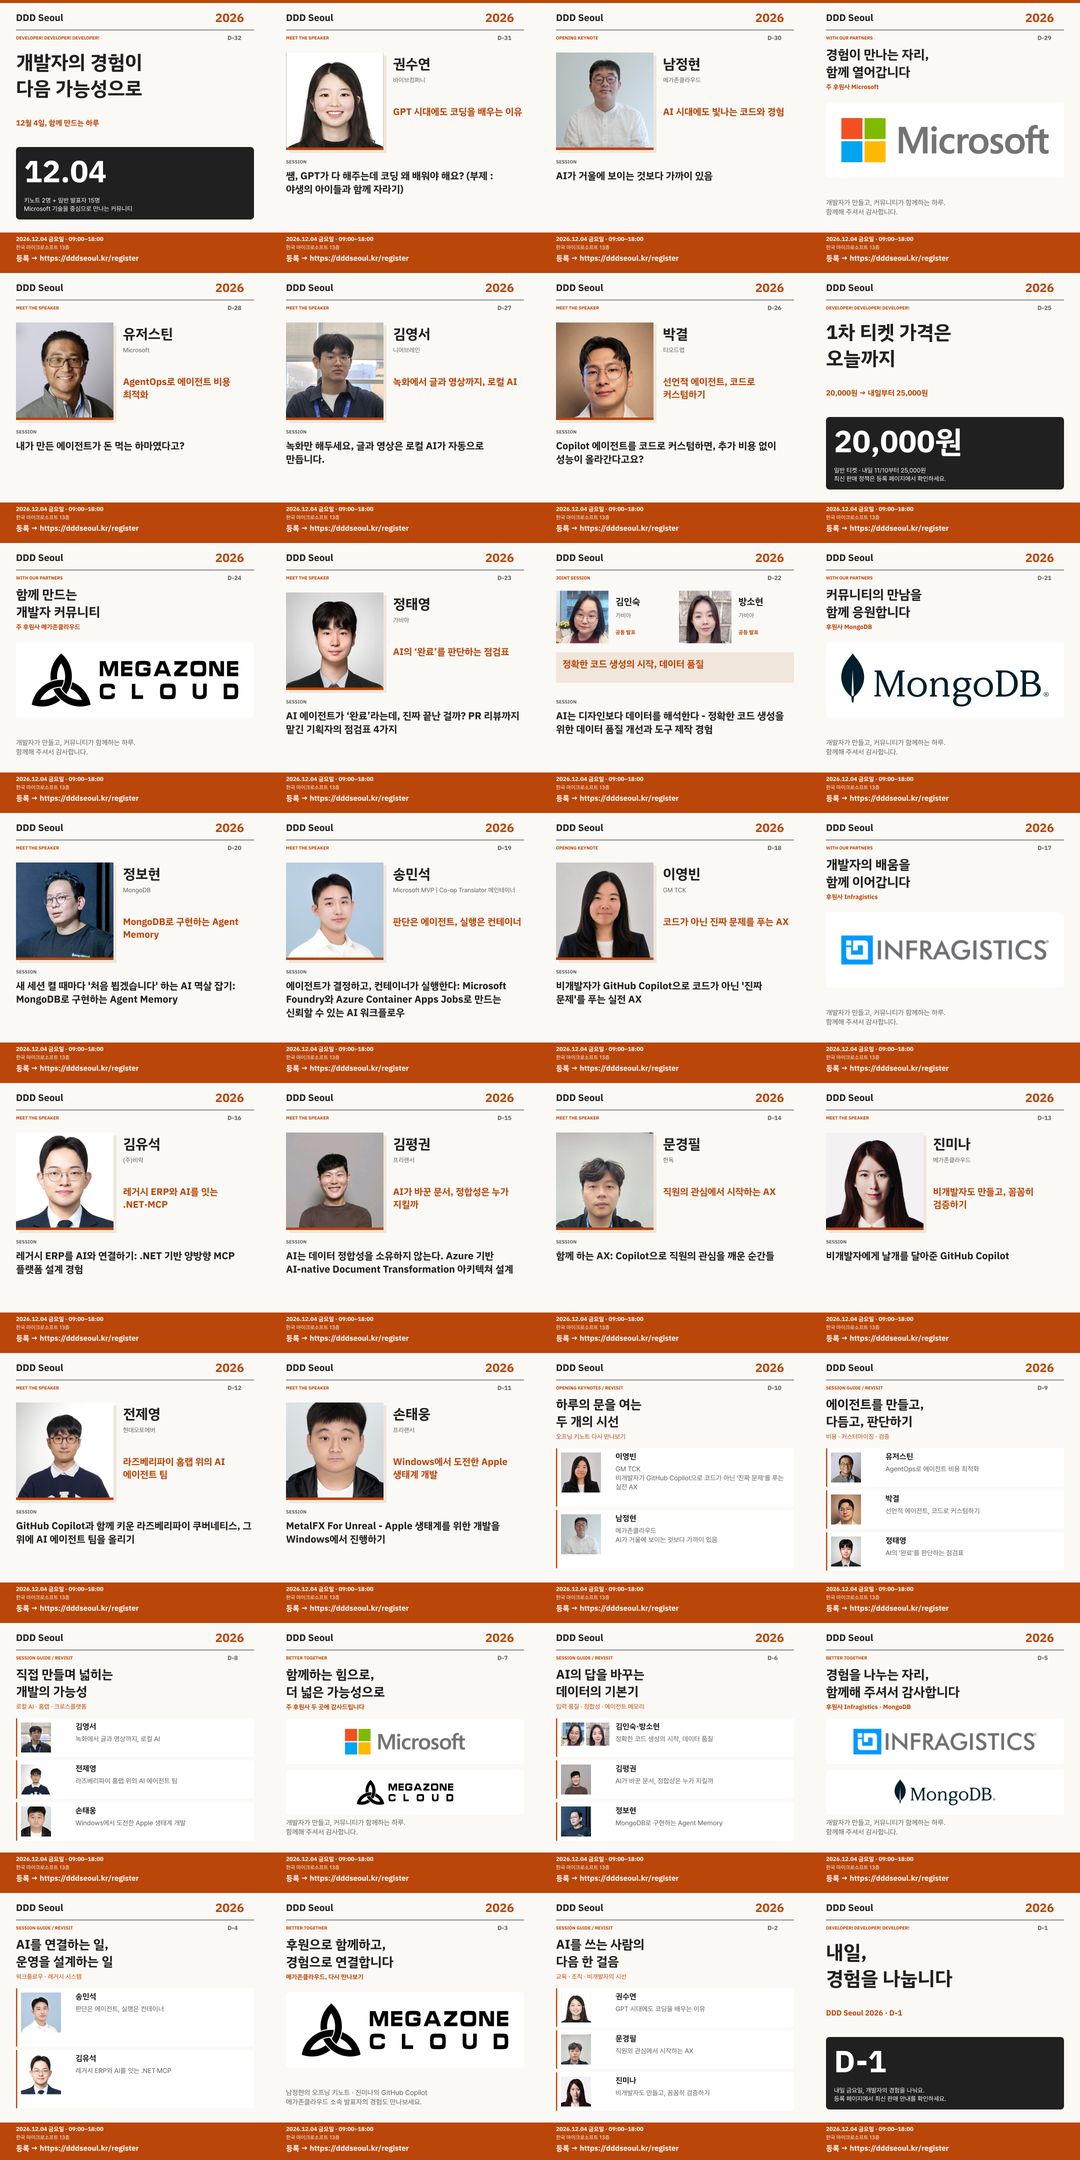
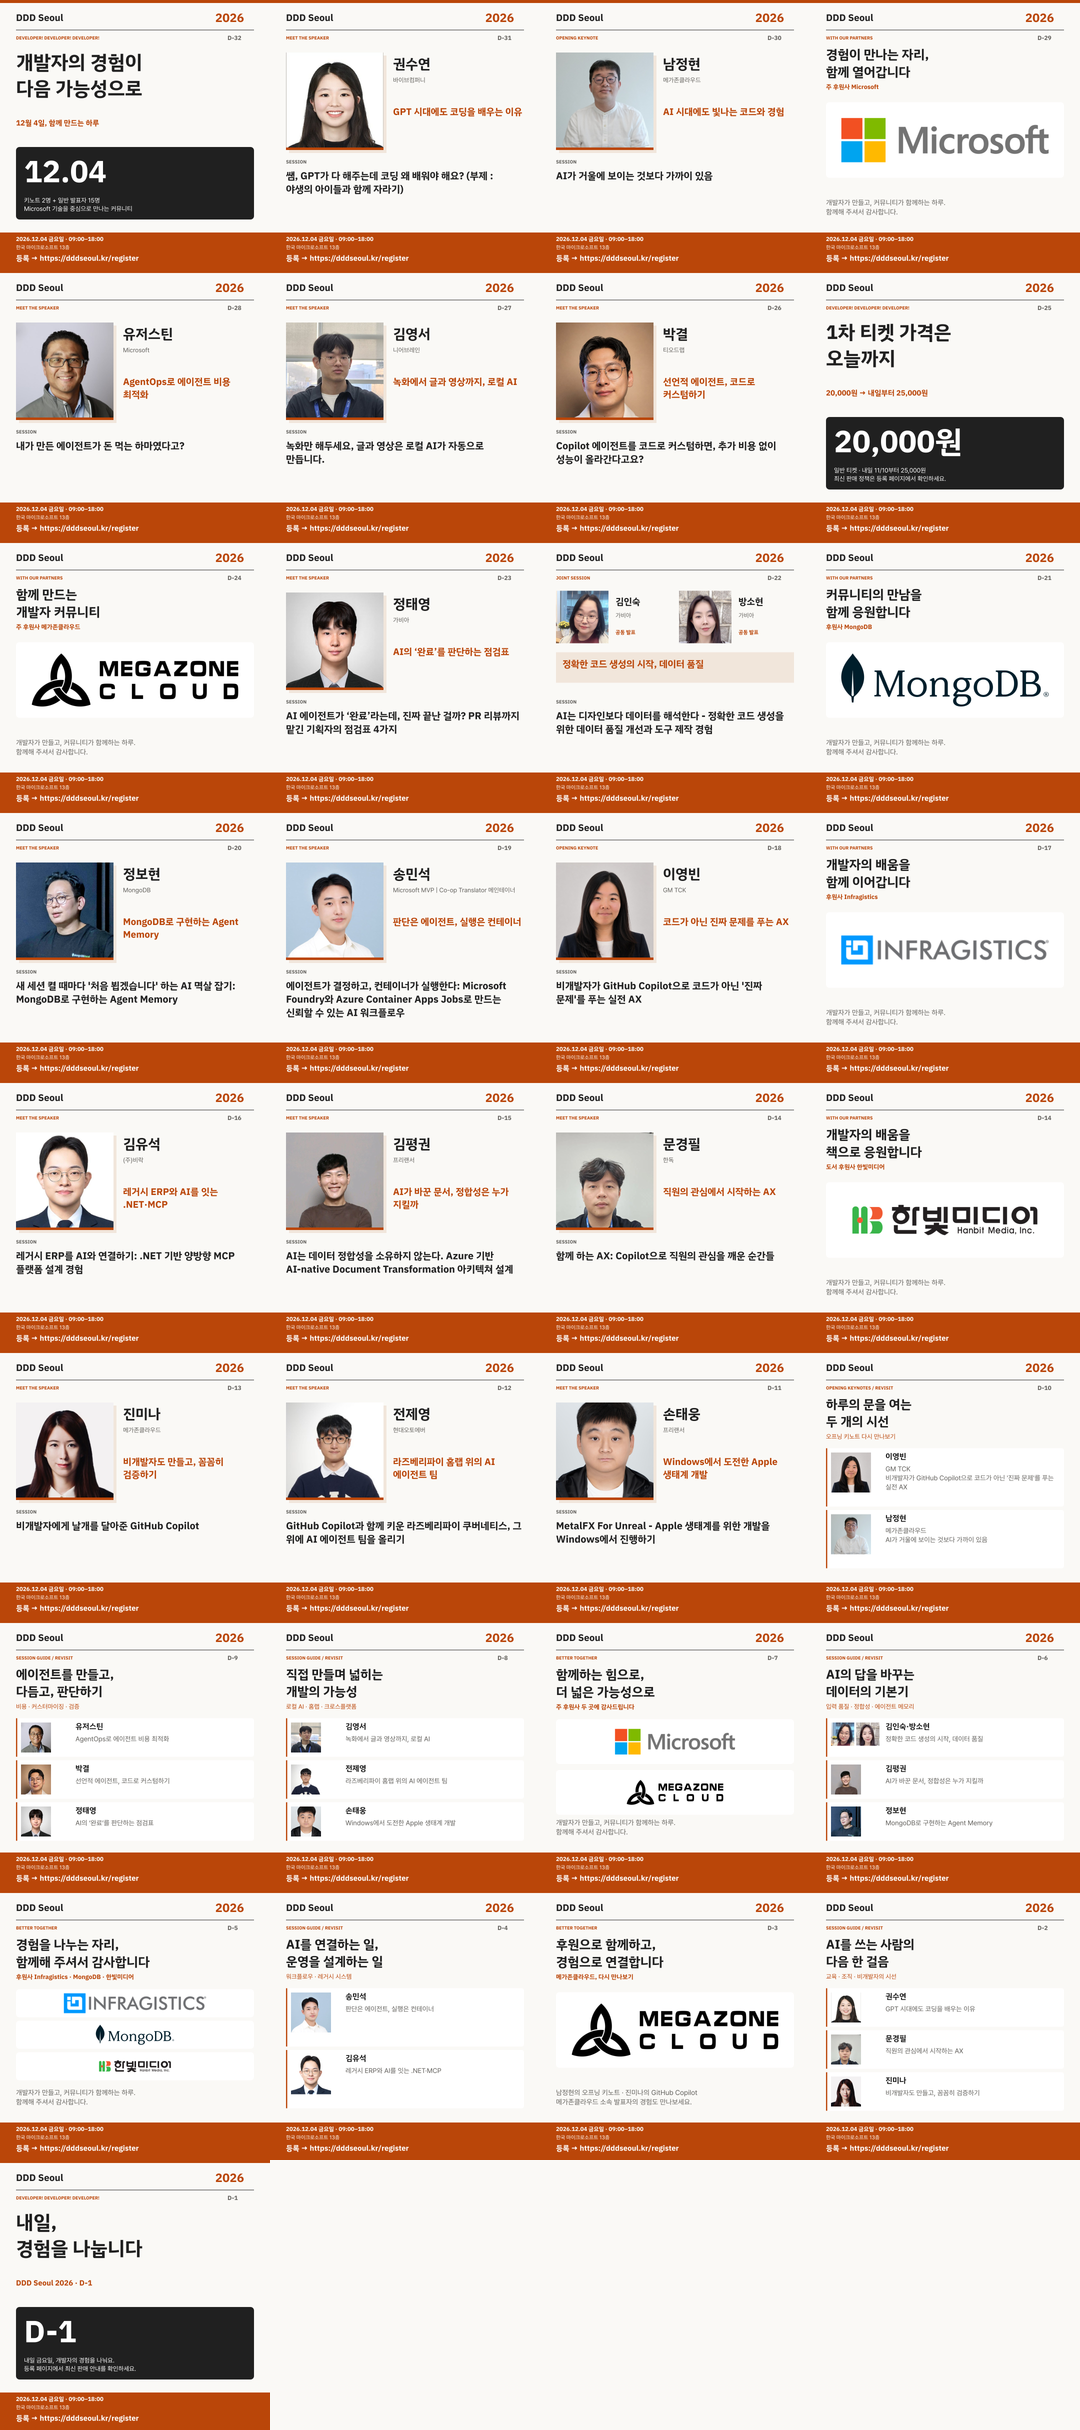
Add Hanbit Media sponsor campaign

diff --git a/cardnews/2026/README.md b/cardnews/2026/README.md
@@ -1,26 +1,30 @@
 # DDD Seoul 2026 소셜미디어 게시 키트
 
-**2026년 11월 2일–12월 3일, 매일 4채널에 게시할 초안**입니다. 공식 LinkedIn·Facebook·X는 Fedica에 예약했으며, Threads는 예약하지 않았습니다. 11월 6일 최신 발표 내용으로 갱신한 11개 날짜의 공식 3채널 예약 33건에는 본문·이미지·대체 텍스트 교체를 완료했습니다. 예약은 오전 9시 KST를 유지하며, 수정한 X 게시물 11건의 답글 권한은 Anyone입니다. 모든 카드와 초안의 CTA는 <https://dddseoul.kr/register>입니다.
+**2026년 11월 2일–12월 3일, 4채널 게시 초안**입니다. 공식 LinkedIn·Facebook·X의 기존 일정은 Fedica에 예약했으며, Threads는 예약하지 않았습니다. 11/29 공동 소개의 공식 3채널 예약에 한빛미디어를 반영했고, **11/20 15:00 한빛미디어 단독 소개도 공식 3채널에 예약했습니다.** 기존 예약은 11/2 15:00, 이후 매일 오전 9시 KST입니다. 모든 카드와 초안의 CTA는 <https://dddseoul.kr/register>입니다.
+
+11월 6일 최신 발표 내용으로 갱신한 11개 날짜의 공식 3채널 예약 33건에는 본문·이미지·대체 텍스트 교체를 완료했습니다. 수정한 X 게시물 11건의 답글 권한은 편집 화면에서 Anyone으로 확인했습니다.
+
+11/20 한빛미디어 예약의 X 답글 권한은 편집 화면에서 Anyone으로 확인했지만, Fedica 미리보기에는 `Some accounts can reply`로 표시되어 실제 적용 여부는 불확실합니다.
 
 [게시 달력](calendar.md)에서 날짜를 선택하면 해당 이미지와 공식 LinkedIn·Facebook·X, 개인 Threads 초안을 한꺼번에 볼 수 있습니다.
 
 배포용 ZIP에서는 이미지·SVG·게시글을 바로 사용할 수 있습니다. 자동 재출력은 원본 발표자 문서와 자산을 읽으므로, 이 폴더를 원래 위치에 둔 저장소 체크아웃에서 실행하세요.
 
-![32일 카드 전체 미리보기](contact-sheet.png)
+![33개 카드 전체 미리보기](contact-sheet.png)
 
 ## 구성
 
 | 항목 | 위치 | 수량 |
 |---|---|---|
-| 게시용 정사각형 PNG | `images` | 32개, 1080×1080, sRGB |
-| 편집 가능한 SVG | `editable` | 32개, 사진·로고 포함 |
-| 날짜별 게시글·이미지 대체 텍스트 | `posts` | 32문서, 채널별 초안 총 128개 |
+| 게시용 정사각형 PNG | `images` | 33개, 1080×1080, sRGB |
+| 편집 가능한 SVG | `editable` | 33개, 사진·로고 포함 |
+| 날짜별 게시글·이미지 대체 텍스트 | `posts` | 33문서, 채널별 초안 총 132개 |
 | 게시 달력 | `calendar.md` | 32일, KST 기준 |
 | 편집용 문구·일정 | `content.json` | 수작업 편집 원천 |
 | 전체 데이터·완성 초안·출처 해시 | `campaign.json` | 자동 생성 |
 | 카드 레이아웃·생성·검수 | `build.mjs` | 제작 전용, 웹사이트 빌드와 독립 |
 
-발표자 17명의 첫 소개는 **개인 15장 + 김인숙·방소현 공동 1장**입니다. 파트너사 첫 소개 4장, 발표자 재소개 6장, 파트너사 재소개 3장, 참가 독려 3장으로 총 32장입니다.
+발표자 17명의 첫 소개는 **개인 15장 + 김인숙·방소현 공동 1장**입니다. 파트너사 첫 소개 5장, 발표자 재소개 6장, 파트너사 재소개 3장, 참가 독려 3장으로 총 33장입니다. 11/20에는 기존 문경필 소개 외에 한빛미디어 단독 소개를 15:00에 추가합니다.
 
 모든 발표자의 첫 소개는 **11월 23일**에 끝나며, 재소개는 **11월 24일**부터 시작합니다.
 
@@ -35,7 +39,7 @@
 
 일반 세션 14개를 빠짐없이 나누었으며, 네 채널 각각에서 발표자 17명 모두를 재소개합니다. 주제 묶음은 편집상 구분이지 공식 트랙·발표 순서·동시 진행 시간표가 아닙니다.
 
-메가존클라우드는 11/10·12/1 **단독 2회**, 11/27 **주 후원사 묶음 1회**로 총 3회 노출합니다. 참가 독려 전용일은 11/2·11/9·12/3이고, 다른 모든 날에도 등록 CTA가 있습니다.
+메가존클라우드는 11/10·12/1 **단독 2회**, 11/27 **주 후원사 묶음 1회**로 총 3회 노출합니다. 한빛미디어는 11/20 **단독 1회**, 11/29 **공동 1회** 소개합니다. 참가 독려 전용일은 11/2·11/9·12/3이고, 다른 모든 날에도 등록 CTA가 있습니다.
 
 ## 게시하는 방법
 
@@ -72,7 +76,7 @@ node cardnews\2026\build.mjs
 - **이름·소속·사진·정식 세션명:** `src\DDDSeoul\input\speakers`의 원문에서 읽습니다. 사진 경로는 원문을 그대로 따릅니다. 진미나 사진은 운영진 이미지 경로입니다.
 - **디자인·글자 크기·줄바꿈·사진 배치:** `build.mjs`의 카드 함수에서 수정합니다. 글자가 영역을 넘거나 글꼴에 문자가 없으면 생성을 실패시킵니다.
 - **편집 프로그램에서 개별 수정:** `editable`의 SVG를 사용합니다. 다만 자동 생성 명령은 SVG·PNG·게시글·달력을 다시 쓰므로, 계속 유지할 변경은 원천 데이터나 템플릿에도 반영해야 합니다.
-- **파트너사 로고:** 기존 `theme\input\images\sponsors`의 원본 비율·색상을 유지합니다. 생성형 로고나 외부 인물 사진을 사용하지 않습니다.
+- **파트너사 로고:** 기존 `theme\input\images\sponsors`의 원본 비율·색상을 유지합니다. 한빛미디어는 `theme\input\2025\images\sponsors\hanbitmedia.png`를 재사용하므로 게시 전 올해 사용할 로고인지 확인하세요. 생성형 로고나 외부 인물 사진을 사용하지 않습니다.
 
 `campaign.json`은 편집 원천이 아니라 완성 데이터입니다. `--check`는 원천과 생성물 일치, 이미지 규격, SVG→PNG 일치, 일정·커버리지·CTA·글자 수, 원본 파일 변경 여부를 확인합니다. 문구를 변경한 뒤에는 다시 생성하고 전체 미리보기와 해당 카드를 육안으로 확인하세요.
 

diff --git a/cardnews/2026/posts/2026-11-20-hanbitmedia.md b/cardnews/2026/posts/2026-11-20-hanbitmedia.md
@@ -1,0 +1,62 @@
+# 2026-11-20 · 개발자의 배움을 책으로 응원합니다
+
+유형: 파트너사 첫 소개 · D-14 · 게시 기준: KST · 예정 시각: 15:00
+
+![DDD Seoul 2026. 개발자의 배움을 책으로 응원합니다. 도서 후원사 한빛미디어. 2026년 12월 4일 금요일 09:00–18:00, 한국 마이크로소프트 13층. 등록: https://dddseoul.kr/register](../images/2026-11-20-hanbitmedia.png)
+
+편집 원본: [SVG](../editable/2026-11-20-hanbitmedia.svg)
+
+## 이미지 대체 텍스트
+
+DDD Seoul 2026. 개발자의 배움을 책으로 응원합니다. 도서 후원사 한빛미디어. 2026년 12월 4일 금요일 09:00–18:00, 한국 마이크로소프트 13층. 등록: https://dddseoul.kr/register
+
+## LinkedIn · 공식 계정
+
+DDD Seoul 2026의 도서 후원사 한빛미디어를 소개합니다.
+
+개발자의 배움과 경험을 나누는 자리에 함께해 주시는 한빛미디어에 감사드립니다. 12월 4일, 커뮤니티가 함께 만드는 하루에 여러분을 초대합니다.
+
+2026.12.04(금) 09:00–18:00
+한국 마이크로소프트 13층
+
+참가 등록: https://dddseoul.kr/register
+
+#DDDSeoul #DDDSeoul2026
+
+## Facebook · 공식 계정
+
+DDD Seoul 2026에 도서 후원사 한빛미디어가 함께합니다. 개발자의 배움을 응원해 주셔서 감사합니다!
+
+개발자의 배움과 경험을 나누는 자리에 함께해 주시는 한빛미디어에 감사드립니다. 12월 4일, 커뮤니티가 함께 만드는 하루에 여러분을 초대합니다.
+
+12월 4일 금요일, 09:00–18:00
+한국 마이크로소프트 13층에서 만나요.
+
+참가 등록: https://dddseoul.kr/register
+
+#DDDSeoul #DDDSeoul2026
+
+## X · 공식 계정
+
+DDD Seoul 2026 도서 후원사 한빛미디어를 소개합니다. 개발자의 배움과 경험을 나누는 자리에 함께해 주셔서 감사합니다!
+
+등록: https://dddseoul.kr/register
+
+#DDDSeoul #DDDSeoul2026
+
+## Threads · 개인 계정
+
+DDD Seoul 2026에 도서 후원사 한빛미디어가 함께하게 됐어요. 개발자의 배움과 경험을 나누는 자리를 응원해 주셔서 감사합니다. 12월 4일에 만나요!
+
+12/4(금), 한국 마이크로소프트 13층에서 함께 이야기 나눠요.
+등록: https://dddseoul.kr/register
+
+#DDDSeoul #DDDSeoul2026
+
+## 게시 전 확인
+
+11월 20일 15:00 KST 추가 초안. 기존 09:00 문경필 발표자 소개는 유지합니다. 도서 제공 방식은 게시 전 확인하세요.
+
+X 가중 문자: 170/280 · Threads: 185/500
+
+초안입니다. 실제 게시·예약은 하지 않았습니다.

diff --git a/cardnews/2026/calendar.md b/cardnews/2026/calendar.md
@@ -1,6 +1,6 @@
 # DDD Seoul 2026 게시 달력
 
-2026년 11월 2일–12월 3일 · KST · 매일 4채널 · 실제 게시 전 검토용
+2026년 11월 2일–12월 3일 · KST · 매일 4채널, 11/20 추가 초안 포함 · 실제 게시 전 검토용
 
 모든 이미지·게시글 CTA: https://dddseoul.kr/register
 
@@ -25,6 +25,7 @@
 | 11월 18일 | D-16 | 발표자 첫 소개 | 김유석 | [PNG](images/2026-11-18.png) | [4채널](posts/2026-11-18.md) |
 | 11월 19일 | D-15 | 발표자 첫 소개 | 김평권 | [PNG](images/2026-11-19.png) | [4채널](posts/2026-11-19.md) |
 | 11월 20일 | D-14 | 발표자 첫 소개 | 문경필 | [PNG](images/2026-11-20.png) | [4채널](posts/2026-11-20.md) |
+| 11월 20일 15:00 | D-14 | 파트너사 첫 소개 | 도서 후원사 한빛미디어 | [PNG](images/2026-11-20-hanbitmedia.png) | [4채널](posts/2026-11-20-hanbitmedia.md) |
 | 11월 21일 | D-13 | 발표자 첫 소개 | 진미나 | [PNG](images/2026-11-21.png) | [4채널](posts/2026-11-21.md) |
 | 11월 22일 | D-12 | 발표자 첫 소개 | 전제영 | [PNG](images/2026-11-22.png) | [4채널](posts/2026-11-22.md) |
 | 11월 23일 | D-11 | 발표자 첫 소개 | 손태웅 | [PNG](images/2026-11-23.png) | [4채널](posts/2026-11-23.md) |
@@ -33,7 +34,7 @@
 | 11월 26일 | D-8 | 일반 세션 재소개 | 로컬 AI · 홈랩 · 크로스플랫폼 | [PNG](images/2026-11-26.png) | [4채널](posts/2026-11-26.md) |
 | 11월 27일 | D-7 | 파트너사 재소개 | 주 후원사 두 곳에 감사드립니다 | [PNG](images/2026-11-27.png) | [4채널](posts/2026-11-27.md) |
 | 11월 28일 | D-6 | 일반 세션 재소개 | 입력 품질 · 정합성 · 에이전트 메모리 | [PNG](images/2026-11-28.png) | [4채널](posts/2026-11-28.md) |
-| 11월 29일 | D-5 | 파트너사 재소개 | 후원사 Infragistics · MongoDB | [PNG](images/2026-11-29.png) | [4채널](posts/2026-11-29.md) |
+| 11월 29일 | D-5 | 파트너사 재소개 | 후원사 Infragistics · MongoDB · 한빛미디어 | [PNG](images/2026-11-29.png) | [4채널](posts/2026-11-29.md) |
 | 11월 30일 | D-4 | 일반 세션 재소개 | 워크플로우 · 레거시 시스템 | [PNG](images/2026-11-30.png) | [4채널](posts/2026-11-30.md) |
 | 12월 1일 | D-3 | 파트너사 재소개 | 메가존클라우드, 다시 만나보기 | [PNG](images/2026-12-01.png) | [4채널](posts/2026-12-01.md) |
 | 12월 2일 | D-2 | 일반 세션 재소개 | 교육 · 조직 · 비개발자의 시선 | [PNG](images/2026-12-02.png) | [4채널](posts/2026-12-02.md) |
